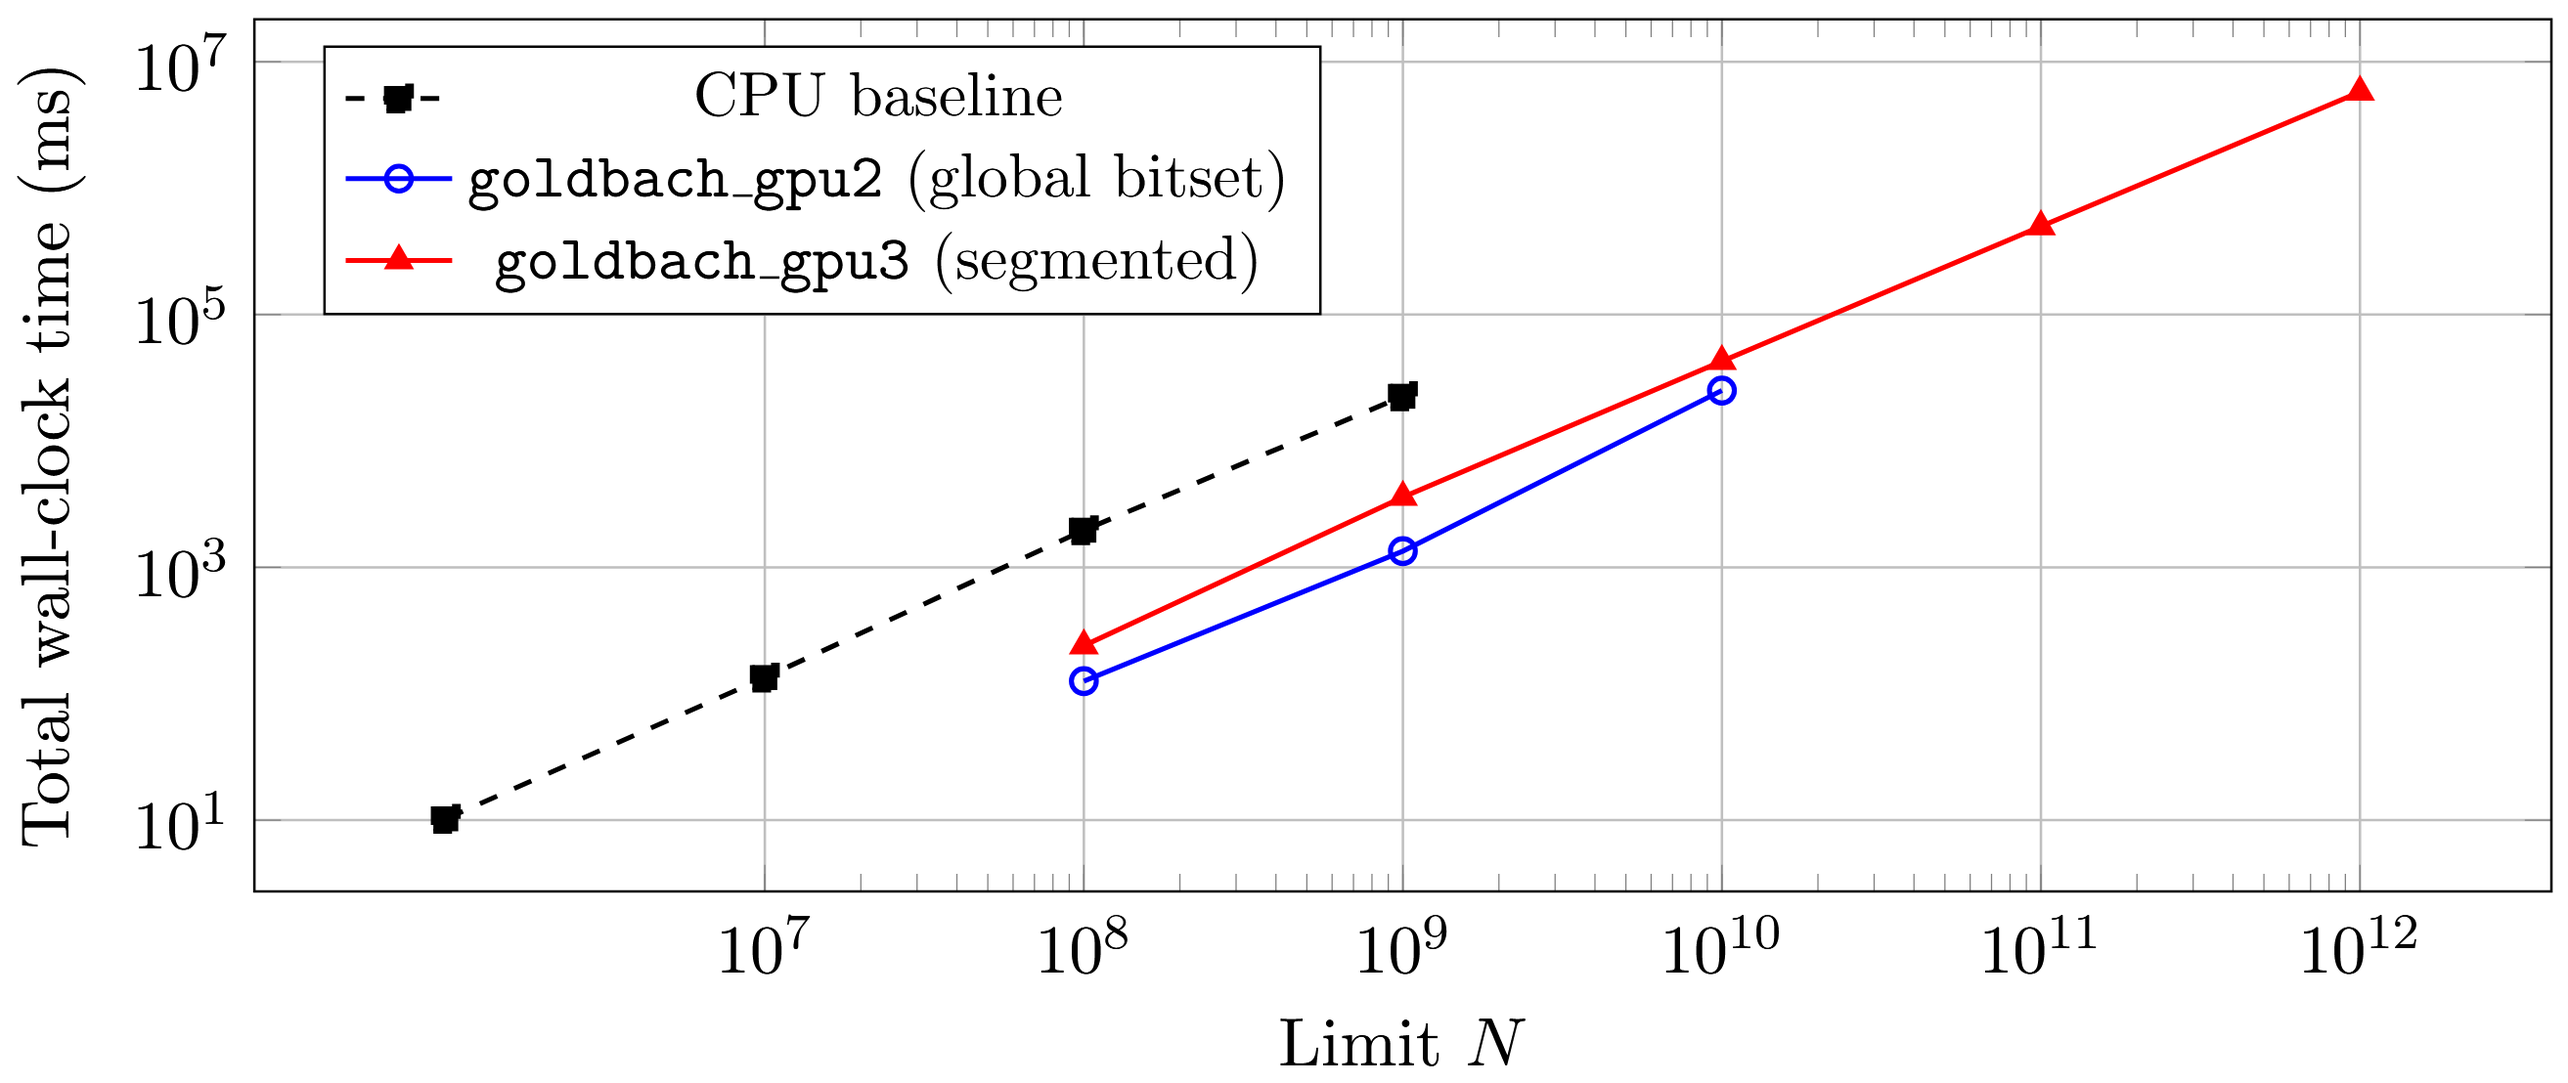
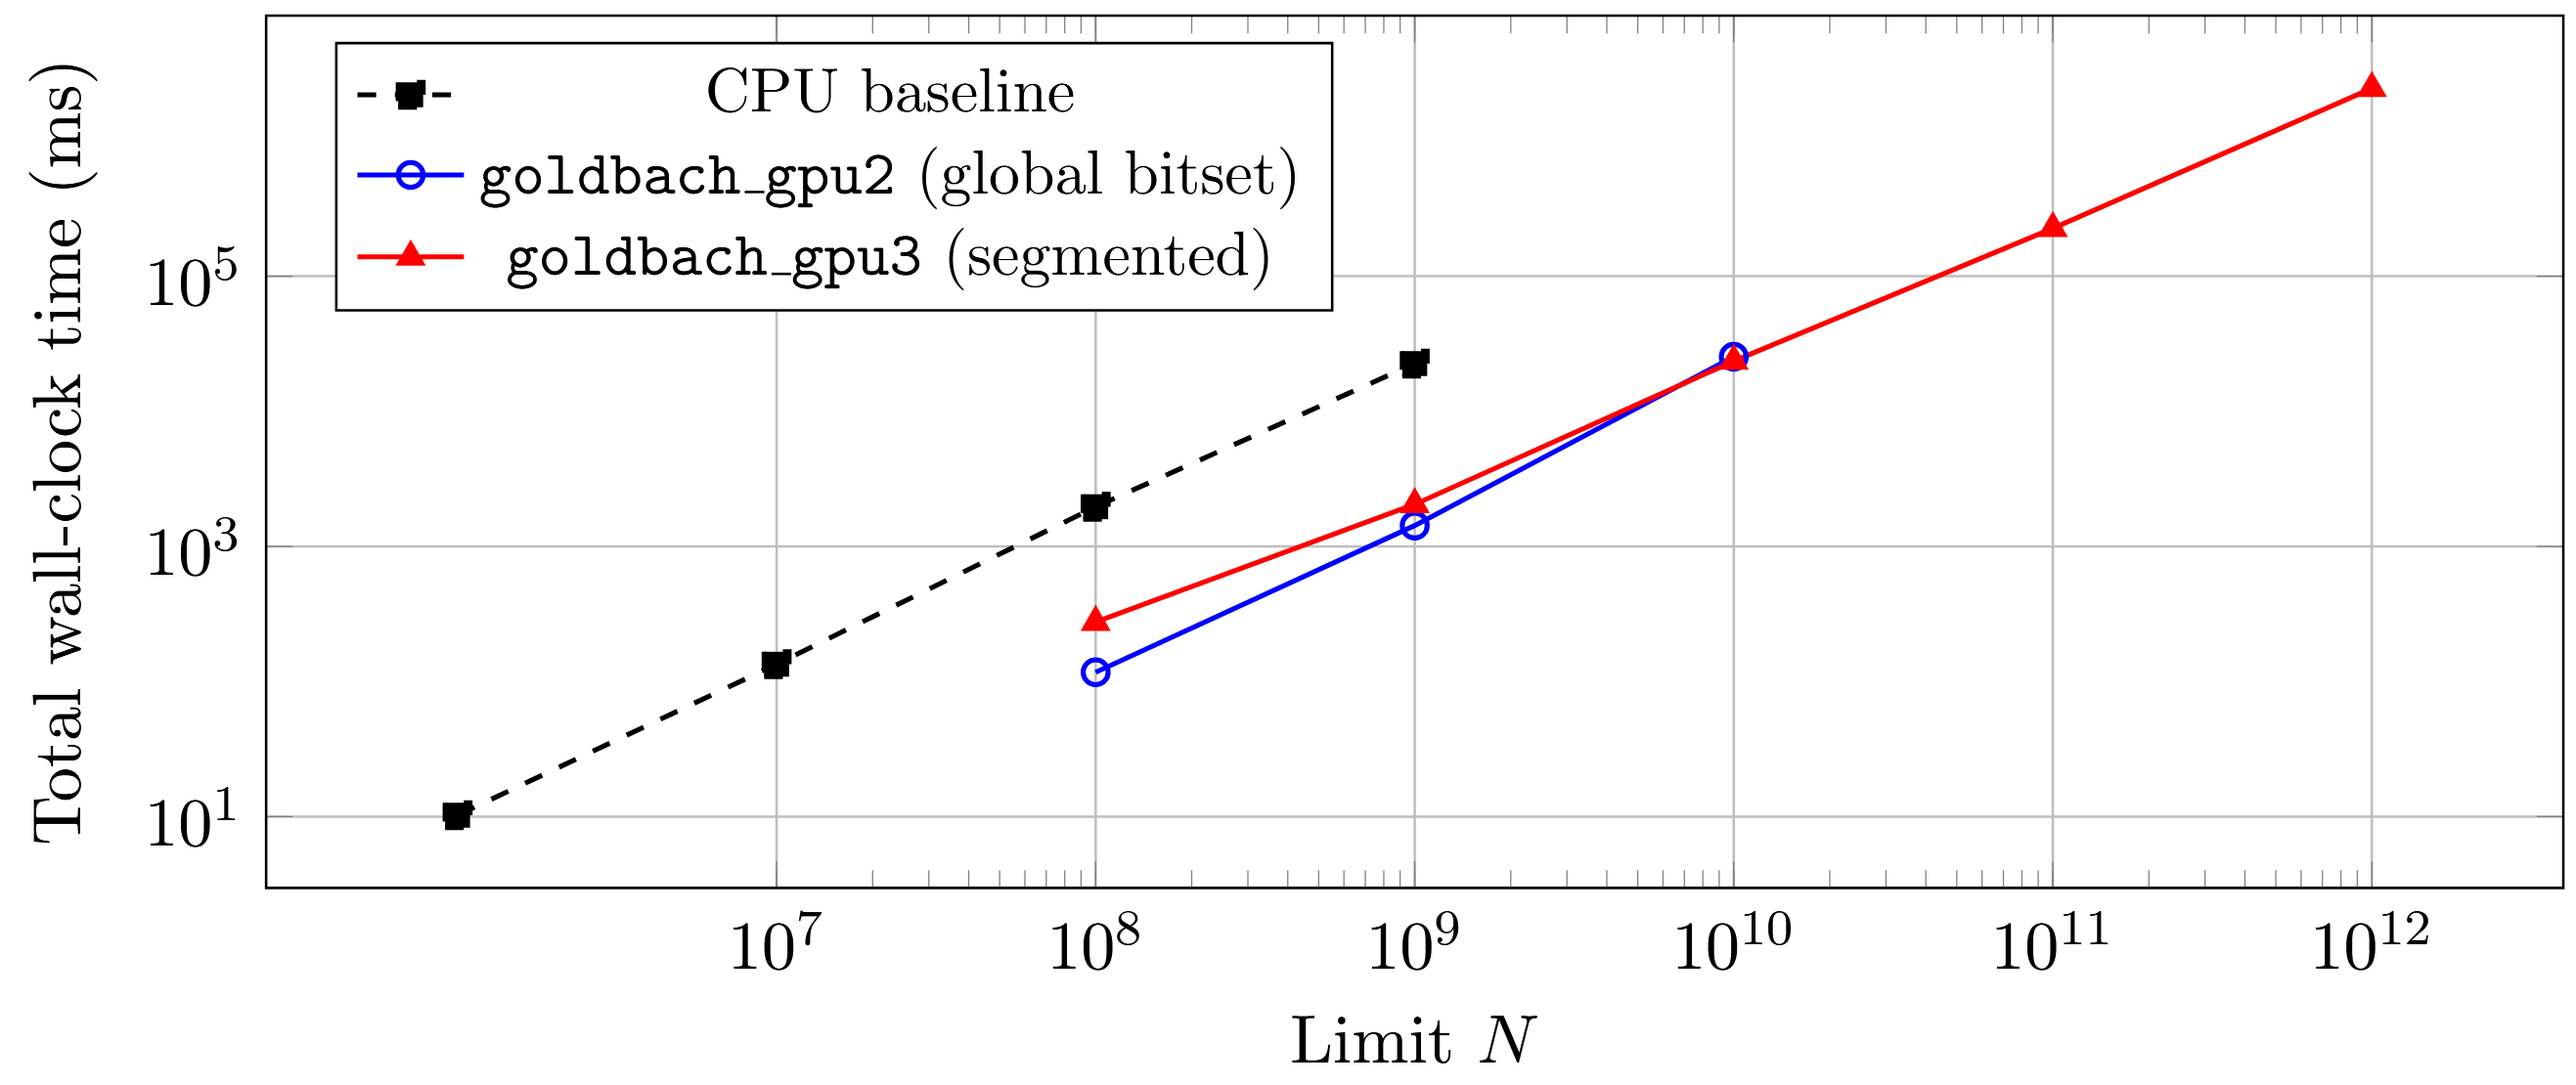
README: updated DOI to v1.1.0 and figure to match the manuscript.

diff --git a/README.md b/README.md
@@ -166,7 +166,7 @@ To reproduce the 10¹² result with specific segmentation and prime bounds, you 
 You can specify the number of GPUs to use. The framework will spawn a worker thread for each device and load-balance segments asynchronously. Also works with --gpus=1.
 ```bash
 # Use all available GPUs
-./build/bin/goldbach_gpu3_multi 1000000000000 10000000 1000000 --gpus=-1
+./build/bin/goldbach_gpu3 1000000000000 10000000 1000000 --gpus=-1
 ```
 
 
@@ -253,9 +253,10 @@ If you use this work, please cite:
 
 ```
 Llorente-Saguer, I. (2026). GoldbachGPU (v1.1.0) [Software]. Zenodo.
-https://doi.org/10.5281/zenodo.18786328
+https://doi.org/10.5281/zenodo.18837081
 ```
-
+For the latest version, see the concept DOI:
+https://doi.org/10.5281/zenodo.18786328
 A preprint will be submitted to arXiv shortly.
 
 ---
